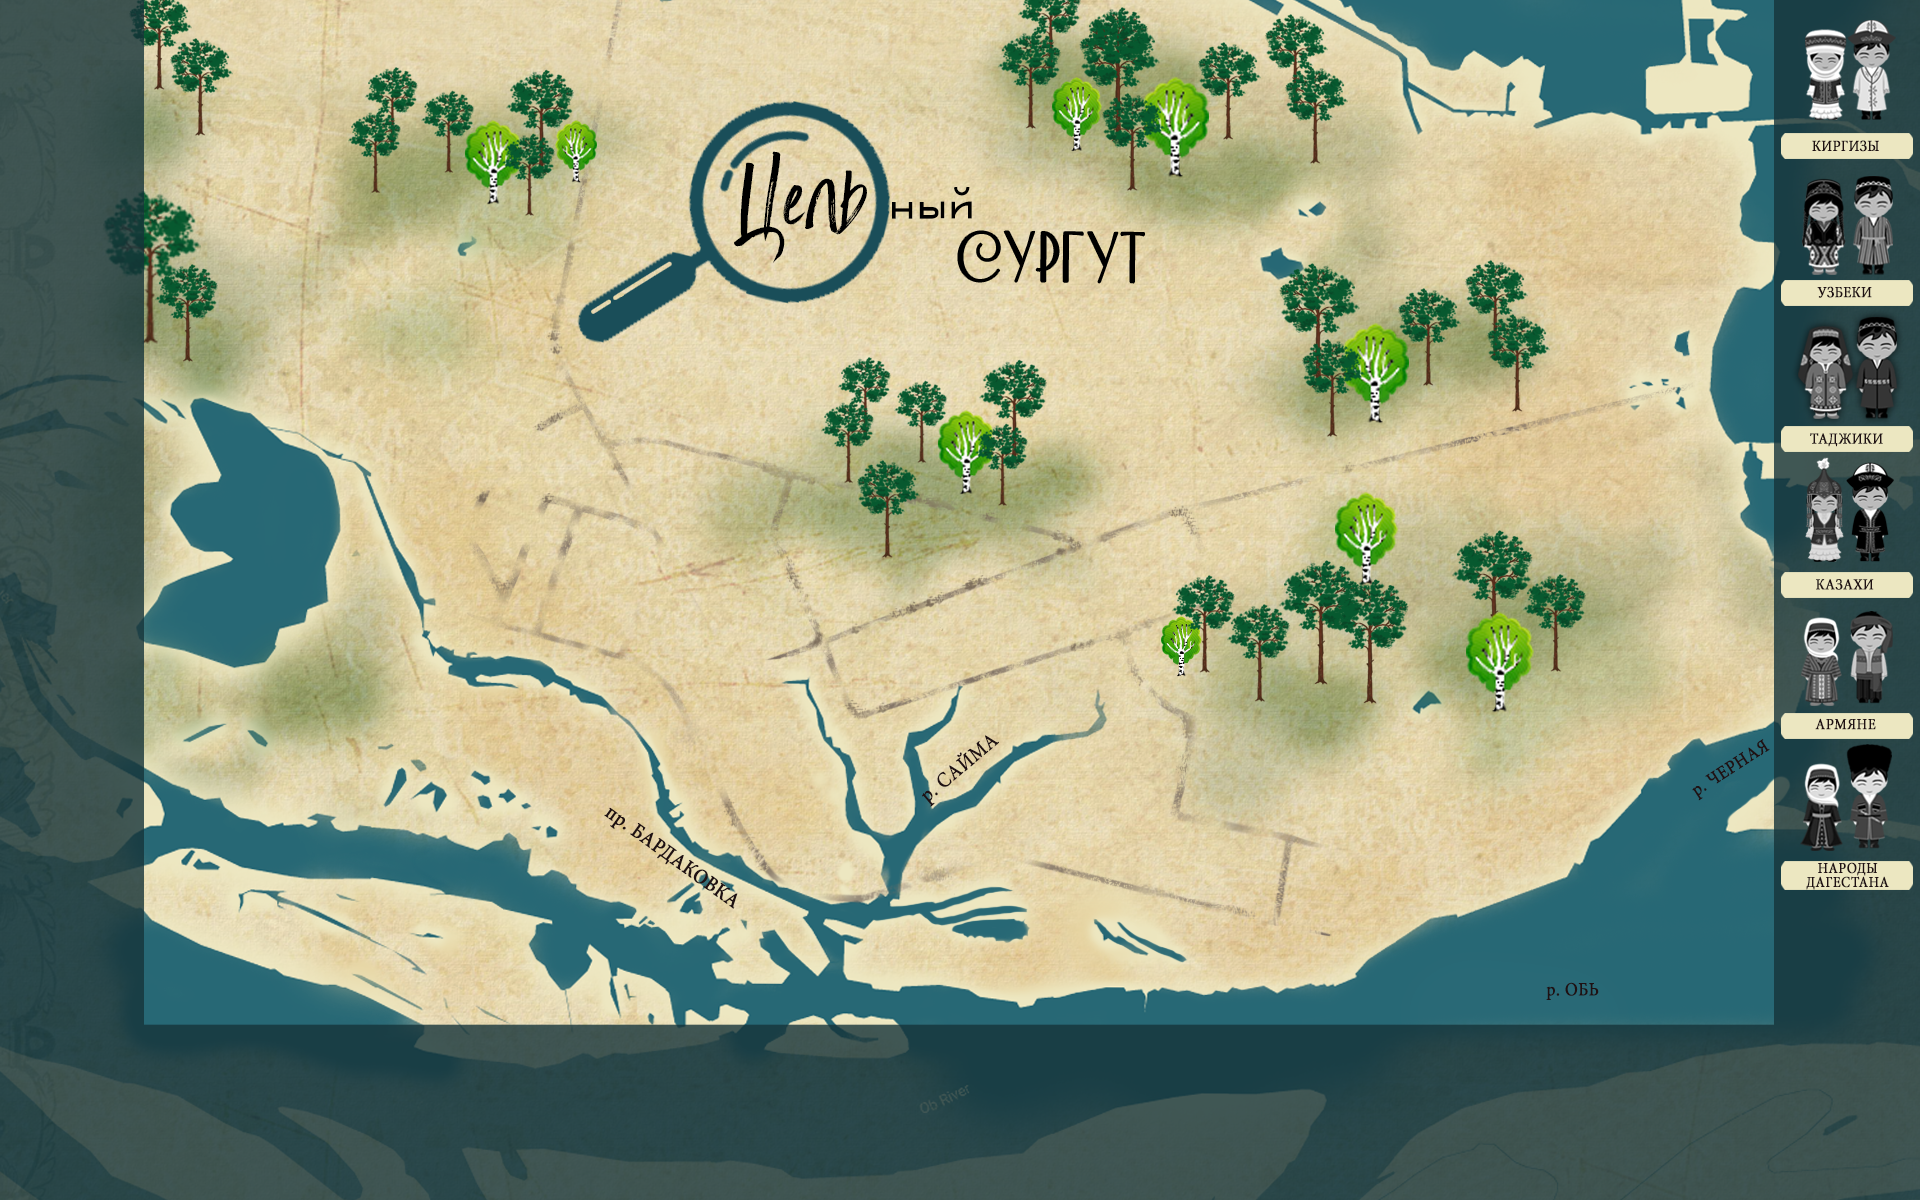
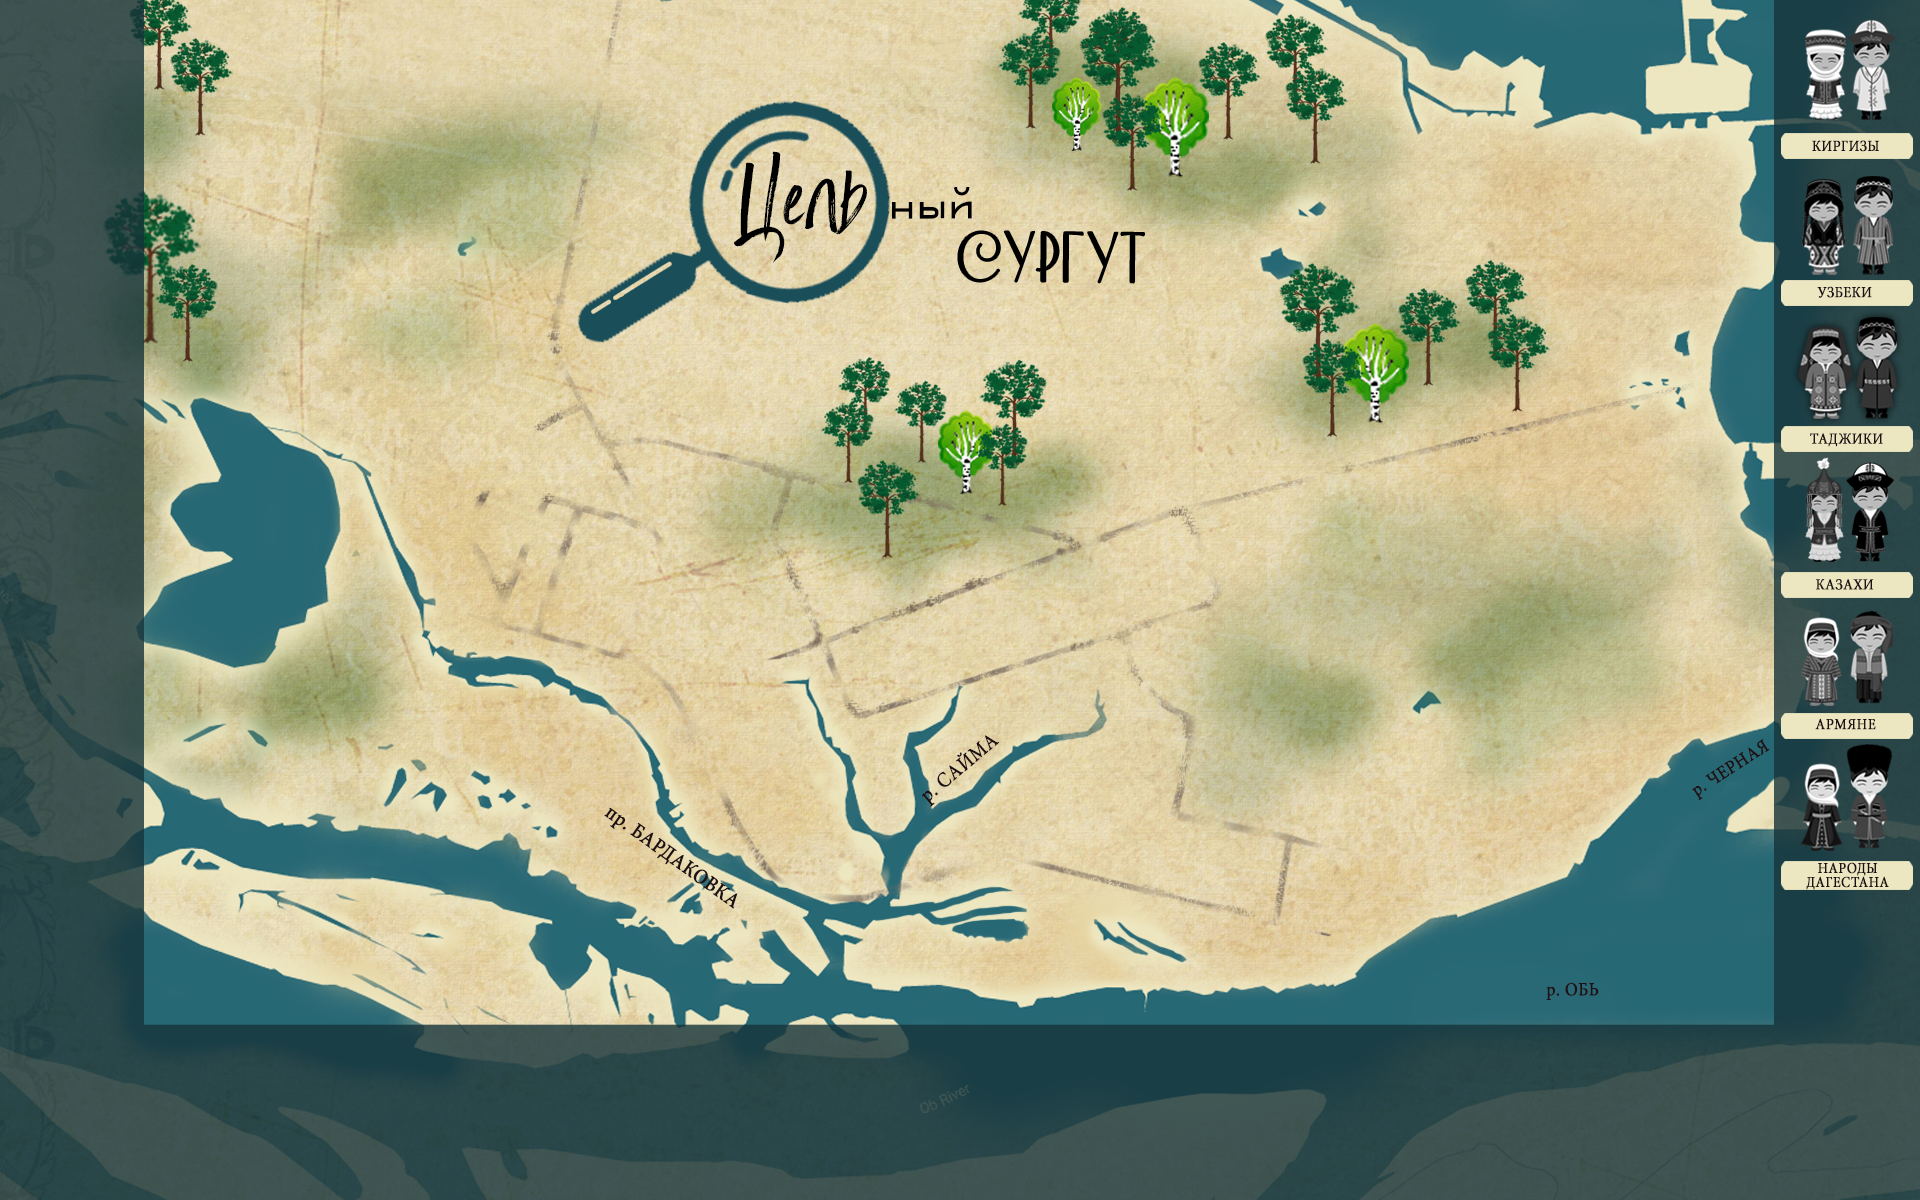
Заменены фоны; ВРЕМЕННО перейти на нужную вкладку-отключено

Changed region(s): [[0.5938, 0.4008, 0.8438, 0.5858], [0.1875, 0.0617, 0.3125, 0.185]]

diff --git a/App/html/script.js b/App/html/script.js
@@ -98,7 +98,7 @@ document.addEventListener('keypress', (event) => {
 	
 
 	//ВРЕМЕННО, перейти на нужную вкладку
-	
+/*	
 	//скрыть черное окно
 	tabBlackClick();
 
@@ -107,7 +107,7 @@ document.addEventListener('keypress', (event) => {
 	var evt = new Event('click');
 	btn.dispatchEvent(evt); // evt.target = btn;
 	menuButtonClick(evt);
-	
+*/	
 
 }());
 
